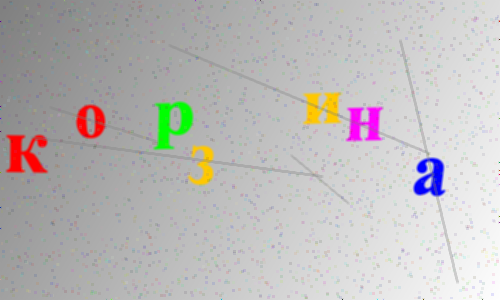
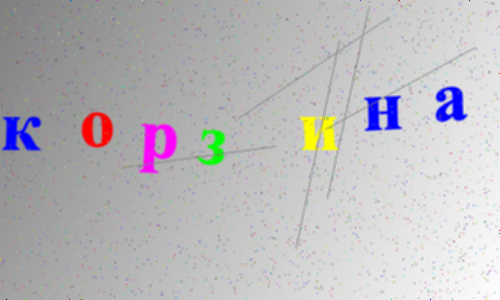
the end

diff --git a/src/main/java/org/example/CaptchaGenerator.java b/src/main/java/org/example/CaptchaGenerator.java
@@ -20,13 +20,15 @@ public class CaptchaGenerator {
             return;
         }
 
-
+        //обрабатываем аргументы
         int width = Integer.parseInt(args[0]);
         int height = Integer.parseInt(args[1]);
         String text = args[2];
         String filename = args[3];
+
         int length = text.length();
         int tallness = width / length;
+
         Color[] rainbow = new Color[]{
                 Color.RED,
                 Color.ORANGE,
@@ -53,27 +55,14 @@ public class CaptchaGenerator {
         int x = 5; // Начальная позиция
         for (int i = 0; i < text.length(); i++) {
             AffineTransform at = new AffineTransform();
-            double t = (double) x / width;                        // 0.0 → 1.0 по ширине
-            double wave = Math.sin(2 * Math.PI * 2.5 * t + 1.2);  // 2.5 волны на ширину
 
             // Эффект 1: Поворот (rotate)
             double rotate = random.nextDouble() * 8 - 4; // От -4 до 4 градусов
             at.rotate(Math.toRadians(rotate));
 
             // Эффект 2: Сдвиг (shear)
-            double shear = random.nextDouble() * 0.2 - 0.1; // Легкий сдвиг
+            double shear = random.nextDouble() * 0.2 - 0.1; // Легкое искажение
             at.shear(shear, 0);
-
-            // небольшое изменение масштаба по вертикали
-            double scaleY = 1.0 + 0.12 * wave;
-            at.scale(1.0, scaleY);
-
-            // небольшое дополнительное сжатие/растяжение по горизонтали
-            double scaleX = 1.0 + 0.08 * Math.cos(2 * Math.PI * 3.2 * t);
-            at.scale(scaleX, 1.0);
-
-            // лёгкий дополнительный сдвиг по y от волны
-            at.translate(0, 4 * wave);
 
             // Применяем трансформации
             g2d.setTransform(at);
